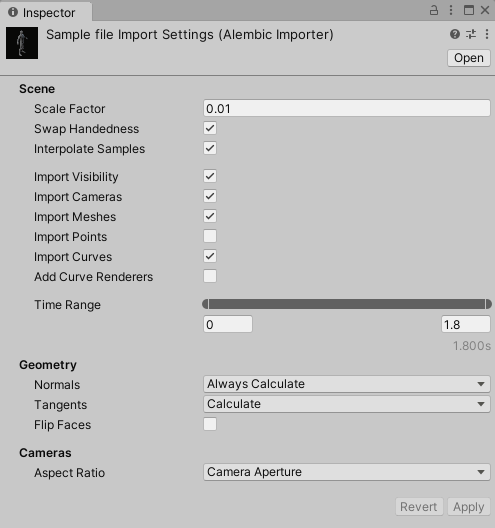
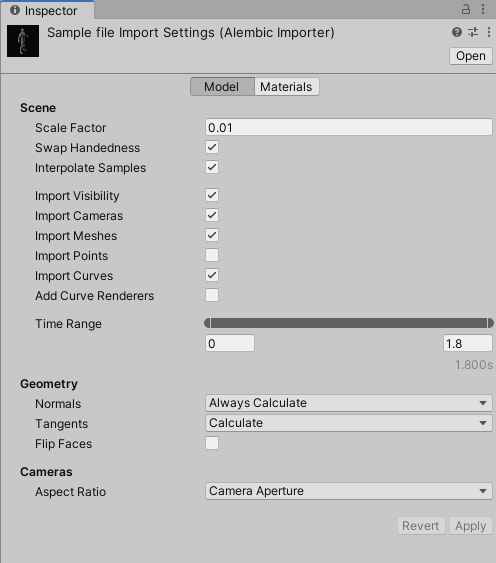
ABC-229 - Document the material remapper tool (#467)
* ABC-229 - Document the material remapper tool

* Reference screenshots

* Fixed Face Set UI change in text and screenshots + addressed dev comment

* Added material management flows + redistributed motion blur/shaders info

* Feature mention in index, import intro and known issues + minor fixes

diff --git a/com.unity.formats.alembic/Documentation~/ref_Importer.md b/com.unity.formats.alembic/Documentation~/ref_Importer.md
@@ -5,42 +5,82 @@ The Alembic **Import Settings (Alembic Importer)** window allows you to customiz
 
 To access the Import Settings window, select the Alembic file in your Project window.
 
-![The Import Settings window](images/abc_import_options.png)
+![The Import Settings window (Model tab)](images/abc_import_options.png)
 
-The following topics explain the properties of the Alembic Import Settings window in detail:
+The Import Settings window consists of two tabs:
+
+- [Model](#model): to customize the Alembic file import through Scene, Time, Geometry and Camera options.
+- [Materials](#materials): to map the submeshes of the imported Alembic asset with existing materials of your project.
+
+**Note:** These two tabs share the same [**Apply** and **Revert** buttons](#apply-and-revert-buttons).
+
+## Model
+
+The Model tab allows you to set up the following import options for your Alembic file:
 
 - [Scene options](#scene-options)
+- [Time Range options](#time-range-options)
 - [Geometry options](#geometry-options)
 - [Cameras options](#cameras-options)
-- [Time range options](#time-range-options)
 
-## Apply/Revert buttons
-
-If you change properties in the **Import Settings (Alembic Importer)** window, the Alembic Importer does not take them into account until you manually apply them.
-
-| Button | Function |
-| :--- | :--- |
-| **Apply** | Applies all changes to allow the Alembic Importer to take them into account in the import process. |
-| **Revert** | Abandons any changes you might have done in the window. This reverts all property values to their previous state and has no impact on the current import process. |
-
->**Note:** If these buttons are inactive, it means that the Alembic Importer currently uses the import options as seen in the window.
-
-## Scene options
+### Scene options
 
 [!include[](import-options-scene.md)]
 
-## Geometry options
-
-[!include[](import-options-geometry.md)]
-
-## Cameras options
-
-[!include[](import-options-cameras.md)]
-
-## Time range options
+### Time Range options
 
 ![Import Time range options](images/abc_import_options_D.png)
 
 Select the time range that corresponds to the portion of the animation you want to be able to play back in Unity. By default, this includes the entire animation.
 
 To change the time range, either drag the handles or directly enter the start and end values in seconds.
+
+### Geometry options
+
+[!include[](import-options-geometry.md)]
+
+### Cameras options
+
+[!include[](import-options-cameras.md)]
+
+## Materials
+
+The Materials tab helps you assign existing materials of your project to any submesh of the imported Alembic file. You can assign these materials manually, or map them automatically based on the Face Set names of the original Alembic file.
+
+![The Import Settings window (Materials tab)](images/abc_import_options_materials.png)
+
+### Material Search
+
+This section of the Materials tab allows you to automatically assign materials to submeshes of the imported Alembic asset. For this, your project must already include materials named after the Face Sets of the original Alembic file.
+
+![Material Search tool](images/abc_import_options_materials_search.png)
+
+| Property/button |  | Description |
+|:---|:---|:---|
+| **Location** |  | Defines the location in which to search for existing materials in your project. |
+|  | Project Wide | Sets the search scope to all folders of your project. |
+|  | Current Folder | Sets the search scope to the folder where the imported Alembic asset is located. This includes subfolders. |
+| **Search and Remap** |  | Searches for existing materials in the specified **Location**, and automatically maps the submeshes of the imported Alembic asset with materials having the same name, if they exist.<br /><br />**Note:** This process is case insensitive. |
+
+### Meshes / Face Sets
+
+This section of the Materials tab lists all meshes and submeshes of the imported Alembic asset, with their current material assignation status.
+
+![List of meshes and submeshes with face Set names](images/abc_import_options_materials_meshes_facesets.png)
+
+| Label | Description |
+|:---|:---|
+| (1) | A mesh of the imported Alembic asset.<br /><br />**Note:** The Meshes / Face Sets treeview does not represent the actual GameObject hierarchy of the imported Alembic asset. To get hierarchy context for a specific mesh, place your mouse cursor over the mesh name. |
+| (2) | Submeshes of mesh (1), identified by the names of their corresponding Face Sets in the original Alembic file.<br /><br />**Note:** "Empty" means the corresponding Face Set has no name in the original Alembic file. In that case, you can only assign a material manually. |
+| (3) | The current material override status of the submesh.<br /><br />Use the target fields to manually assign materials to the listed submeshes. For automatic name-based material assignation, use [Material Search](#material-search).<br /><br />**Note:** "None (Material)" means the Alembic Importer still assigns the Default Material to the submesh. |
+
+## Apply and Revert buttons
+
+If you change properties in any tab of the **Import Settings (Alembic Importer)** window, the Alembic Importer does not take them into account until you manually apply them.
+
+| Button | Function |
+| :--- | :--- |
+| **Apply** | Applies all changes you made in both the **Model** and **Materials** tabs for the current imported Alembic asset. |
+| **Revert** | Abandons any changes you might have done in any of the **Model** and **Materials** tabs. This reverts all property values to their previous state and has no impact on the current imported Alembic asset in Unity. |
+
+>**Note:** If these buttons are inactive, it means that the Alembic Importer currently uses the import options as seen in the window.

diff --git a/com.unity.formats.alembic/Documentation~/materials.md b/com.unity.formats.alembic/Documentation~/materials.md
@@ -1,0 +1,56 @@
+# Working with Materials
+
+The Alembic format doesn't support any material data. Thus, when you import an Alembic file in Unity, the resulting imported asset can't have specific materials assigned by default to its submeshes.
+
+To guarantee an acceptable basic display of the imported Alembic asset, Unity first assigns the whole asset a [default material](#default-material-assignation-and-re-mapping). Then, you can re-map all its submeshes with specific materials of your project, according to your rendering needs.
+
+**Note:** The instructions on this page only apply to Alembic files imported [via your project folder](import-file-local.md). They don't apply to Alembic files you would have added to a Scene [via an external link](import-file-external.md).
+
+
+## Default material assignation and re-mapping
+
+By default, when you import an Alembic file, Unity automatically assigns all of its submeshes the **Default Material** corresponding to your project's render pipeline.
+
+If you need to re-map the imported submeshes with custom materials, you can do it directly from the Importer Settings window:
+* [Automatically](#automatic-re-mapping-based-on-face-set-names) with materials of your project you would have named after the Face Sets of the original Alembic file.
+* [Manually](#manual-assignation) with any materials of your project.
+
+
+## Automatic re-mapping based on Face Set names
+
+To automatically search and assign materials based on Alembic Face Set names:
+
+1. Make sure to create all necessary materials in your project, and name them after the Face Sets of the original Alembic file.
+
+2. Select the Alembic asset in the Project window.
+
+3. In the Inspector, in the Import Settings window, select [the **Materials** tab](ref_Importer.md#materials).
+
+   ![The Import Settings window (Materials tab)](images/abc_import_options_materials.png)
+
+4. In the **Material Search** section, select a **Location** to adjust the material search scope.
+
+   ![Material Search tool](images/abc_import_options_materials_search.png)
+
+5. Click on **Search and Remap**.
+
+6. In the **Meshes / Face Sets** list, review the material override field changes, and click on **Apply**.
+
+**Note:** If a material override field remains set to "None (Material)", you can still [assign it a material manually](#manual-assignation). Otherwise, the Default Material assignation continues to apply to the submesh.
+
+
+## Manual assignation
+
+To manually assign materials of your project to the imported Alembic asset submeshes:
+
+1. Select the Alembic asset in the Project window.
+
+2. In the Inspector, in the Import Settings window, select [the **Materials** tab](ref_Importer.md#materials).
+
+   ![The Import Settings window (Materials tab)](images/abc_import_options_materials.png)
+
+3. In the **Meshes / Face Sets** list, use the target fields to override the default material submesh assignations.
+
+   **Note:** If you leave a material override field set to "None (Material)", the Default Material assignation continues to apply to the submesh.
+
+4. Click on **Apply**.

diff --git a/com.unity.formats.alembic/Documentation~/motion-vectors.md b/com.unity.formats.alembic/Documentation~/motion-vectors.md
@@ -1,17 +1,6 @@
-# Working with Materials
+# Applying motion blur and shaders
 
-This section contains information about [how to handle Materials](#materials) when importing, and how to set up [Motion Blur](#blur). It also [lists the set of Shaders provided](#shaders) with the package that are specifically customized to work with Alembic.
-
-
-
-<a name="materials"></a>
-
-## Assigning Materials on Import
-
-By default, Unity assigns the **Default Material** to imported Alembic Meshes. You need to manually reassign your Materials for each GameObject.
-
-The Alembic package does not support remapping Face Set names to Materials, or creating Materials from Face Set names.
-
+This section contains information about how to set up [Motion Blur](#blur). It also lists the [Shaders](#shaders) included in this package and specifically customized to work with Alembic.
 
 
 <a name="shaders"></a>
@@ -29,7 +18,6 @@ The Alembic package includes the following Shaders:
 |__Standard__                   |Standard Physically Based Renderer (PBR) Material with Motion Blur support added. |
 |__Standard (Roughness setup)__ |Standard PBR Roughness Material with Motion Blur support added. |
 |__Standard (Specular setup)__   |Standard Specular Material with Motion Blur support added. |
-
 
 
 <a name="blur"></a>

diff --git a/com.unity.formats.alembic/Documentation~/import-file-local.md b/com.unity.formats.alembic/Documentation~/import-file-local.md
@@ -19,9 +19,11 @@ To import an Alembic file through your Unity project folder:
 
 ## Applying Materials
 
-The Alembic format does not support any Material data. However, once you imported the file, you can [reassign the Default Material](matshad.md#materials) to a custom Material.
+The Alembic format doesn't support any Material data.
 
-The Alembic for Unity package also provides you with several [Shaders](matshad.md#shaders) specifically designed for Alembic data.
+By default, to guarantee an acceptable basic display of the imported Alembic asset, Unity automatically assigns all of its submeshes the **Default Material** corresponding to your project's render pipeline.
+
+However, once you imported the file, you can [override the default material assignation](materials.md) for all submeshes, either manually or automatically based on the original Face Set names, directly from the Alembic Importer window.
 
 ## Editing the import options
 

diff --git a/com.unity.formats.alembic/Documentation~/import-file-external.md b/com.unity.formats.alembic/Documentation~/import-file-external.md
@@ -21,9 +21,11 @@ To import an Alembic file from outside your Unity project:
 
 ## Applying Materials
 
-The Alembic format does not support any Material data. However, once you imported the file, you can [reassign the Default Material](matshad.md#materials) to a custom Material.
+The Alembic format doesn't support any Material data.
 
-The Alembic for Unity package also provides you with several [Shaders](matshad.md#shaders) specifically designed for Alembic data.
+By default, to guarantee an acceptable basic display of the used Alembic asset, Unity automatically assigns all of its submeshes the **Default Material** corresponding to your project's render pipeline.
+
+However, once you added the Alembic asset to the Scene Hierarchy, you can manually [re-assign materials for each GameObject](https://docs.unity3d.com/Manual/materials-introduction.html).
 
 ## Editing the import options
 

diff --git a/com.unity.formats.alembic/Documentation~/playback.md b/com.unity.formats.alembic/Documentation~/playback.md
@@ -4,4 +4,4 @@ You can customize importing and playing back Alembic data through the properties
 
 When you change the **Time** parameter you can see the Alembic objects moving. To play the animation, you can control the **Time** parameter from the [Timeline](timeline.md) window, [Animation](animClip.md) window, or via scripts.
 
-**Vertex Motion Scale** is a magnification factor when calculating velocity. The greater the velocity and motion scale, the more blurring the [Motion Blur post-processing effect](matshad.md#blur) applies.
+**Vertex Motion Scale** is a magnification factor when calculating velocity. The greater the velocity and motion scale, the more blurring the [Motion Blur post-processing effect](motion-vectors.md#blur) applies.

diff --git a/com.unity.formats.alembic/Documentation~/index.md b/com.unity.formats.alembic/Documentation~/index.md
@@ -11,9 +11,11 @@ The Alembic package brings in vertex cache data from a 3D modeling software, suc
 
 The Alembic package supports these features:
 
-* [Importing](import.md) data from Meshes, Particle Cloud Points, Cameras, and Curves.
+* [Importing](import.md) data from Meshes, Particle Cloud Points, Curves, and Cameras.
 
-* Applying [Alembic Shaders](matshad.md#shaders) and [Motion Blur](matshad.md#blur) effects.
+* [Material automatic remapping](materials.md) on imported Alembic assets based on Face Set names.
+
+* Applying [Alembic Shaders](motion-vectors.md#shaders) and [Motion Blur](motion-vectors.md#blur) effects.
 
 * Customizing [particle and point cloud effects](particles.md).
 

diff --git a/com.unity.formats.alembic/Documentation~/import.md b/com.unity.formats.alembic/Documentation~/import.md
@@ -4,8 +4,9 @@ There are two ways to import Alembic files in Unity, depending on the way you ca
 
 * [Through your Unity project folder](import-file-local.md)
 
-  This is the default recommended import method.
+  This is the default **recommended import method**.
   <br />Use it when you can have a copy of the Alembic source file in a folder within your Unity project. For example, To import smaller assets or any assets that you are using in a context of individual work that does not involve team collaboration.
+  <br />**Note:** This method supports material automatic remapping based on Face Set names.
 
 * [From outside your Unity project folder](import-file-external.md)
 

diff --git a/com.unity.formats.alembic/Documentation~/known-issues.md b/com.unity.formats.alembic/Documentation~/known-issues.md
@@ -10,6 +10,8 @@ This page lists some known issues and limitations that you might experience with
 
 **Limitation:** The Alembic format does not support Material import and export.
 
+**Workaround:** The Alembic Importer includes a tool to [automatically remap materials](materials.md) on imported Alembic assets based on Face Set names.
+
 #### Non-convex polygon import issues
 
 **Known issue:** Importing meshes with non-convex polygons results in malformed geometry (for example, triangles with flipped normals).

diff --git a/com.unity.formats.alembic/Documentation~/TableOfContents.md b/com.unity.formats.alembic/Documentation~/TableOfContents.md
@@ -12,8 +12,9 @@
 * [Using Animation events with Alembic files](time_frameAnimEvent.md)
 * [Exporting Unity GameObjects to Alembic](export.md)
 * [Working with Particles](particles.md)
-* [Working with Materials](matshad.md)
+* [Working with Materials](materials.md)
 * [Working with Curves](curves.md)
+* [Applying motion blur and shaders](motion-vectors.md)
 * [Window reference](reference.md)
     * [Alembic Exporter component](ref_Exporter.md)
     * [Alembic Point Cloud component](ref_PointCloud.md)
